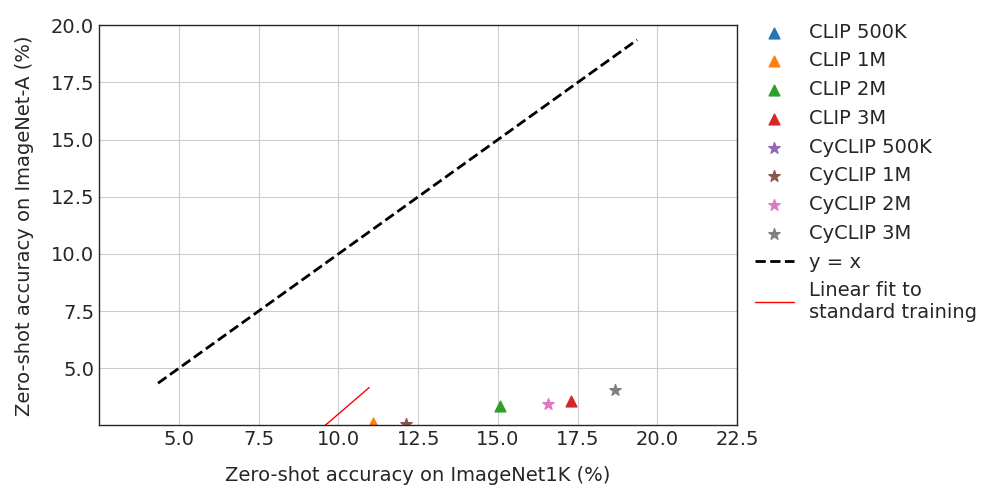
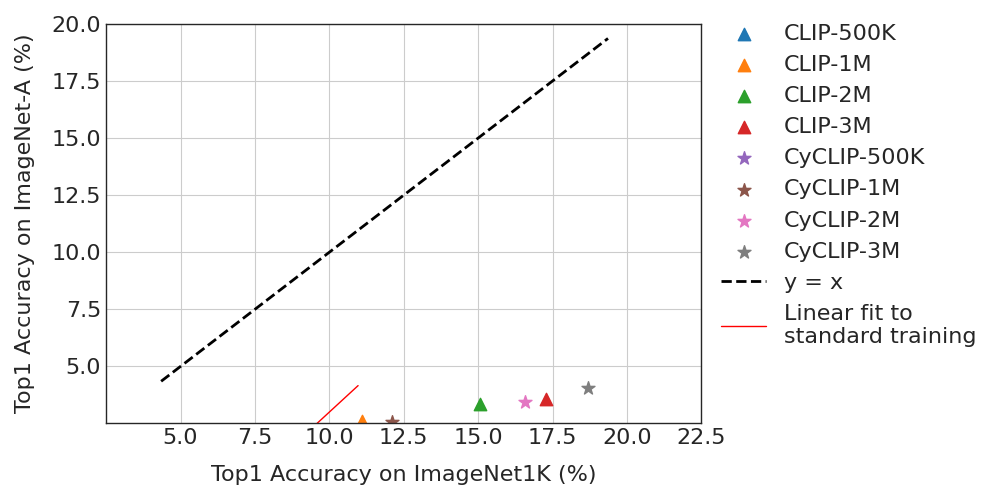
minor fixes

Changed region(s): [[0.0, 0.03, 0.992, 0.9], [0.217, 0.93, 0.62, 0.99]]

diff --git a/utils/fine_coarse_plot.py b/utils/fine_coarse_plot.py
@@ -23,39 +23,39 @@ sns.set_style("white")
 k = 1
 
 data_fine_top_1 = {
-    "Dataset": ["CIFAR100", "ImageNet1K", "ImageNetV2", "ImageNetSketch", "ImageNet-A", "ImageNet-R"],
-    "CLIP": [43.55,	34.18, 31.11, 25.11, 40.09, 54.49],
+    "Dataset": ["CIFAR-100", "ImageNet1K", "ImageNetV2", "ImageNetSketch", "ImageNet-A", "ImageNet-R"],
+    "CLIP": [43.55,	34.18, 31.10, 25.11, 40.09, 54.49],
     "CyCLIP": [47.11, 35.46, 33.01, 26.42, 41.25, 55.36],
 }
 
 data_coarse_top_1 = {
-    "Dataset": ["CIFAR100", "ImageNet1K", "ImageNetV2", "ImageNetSketch", "ImageNet-A", "ImageNet-R"],
+    "Dataset": ["CIFAR-100", "ImageNet1K", "ImageNetV2", "ImageNetSketch", "ImageNet-A", "ImageNet-R"],
     "CLIP": [34.82, 52.11, 47.24, 37.03, 14.59, 40.51],
     "CyCLIP": [40.37, 56.79, 52.15, 41.57, 16.48, 44.43],
 }
 
 data_fine_top_2 = {
-    "Dataset": ["CIFAR100", "ImageNet1K", "ImageNetV2", "ImageNetSketch", "ImageNet-A", "ImageNet-R"],
+    "Dataset": ["CIFAR-100", "ImageNet1K", "ImageNetV2", "ImageNetSketch", "ImageNet-A", "ImageNet-R"],
     "CLIP": [67.65, 46.53, 43.85, 36.69, 57.93, 71.55],
     "CyCLIP": [68.67, 48.22, 45.37, 38.34, 57.89, 71.96],
 }
 
 data_coarse_top_2 = {
-    "Dataset": ["CIFAR100", "ImageNet1K", "ImageNetV2", "ImageNetSketch", "ImageNet-A", "ImageNet-R"],
+    "Dataset": ["CIFAR-100", "ImageNet1K", "ImageNetV2", "ImageNetSketch", "ImageNet-A", "ImageNet-R"],
     "CLIP": [49.51, 66.06, 61.42, 49.93, 24.71, 52.77],
-    "CyCLIP": [56.26, 69.66, 65.27, 54.59, 26.75, 55.98],
+    "CyCLIP": [56.26, 69.67, 65.27, 54.59, 26.75, 55.98],
 }
 
 data_fine_top_3 = {
-    "Dataset": ["CIFAR100", "ImageNet1K", "ImageNetV2", "ImageNetSketch", "ImageNet-A", "ImageNet-R"],
+    "Dataset": ["CIFAR-100", "ImageNet1K", "ImageNetV2", "ImageNetSketch", "ImageNet-A", "ImageNet-R"],
     "CLIP": [82.41, 53.95, 51.61, 44.66, 67.80, 79.52],
     "CyCLIP": [83.32, 55.43, 52.85, 46.09, 68.75, 79.81],
 }
 
 data_coarse_top_3 = {
-    "Dataset": ["CIFAR100", "ImageNet1K", "ImageNetV2", "ImageNetSketch", "ImageNet-A", "ImageNet-R"],
+    "Dataset": ["CIFAR-100", "ImageNet1K", "ImageNetV2", "ImageNetSketch", "ImageNet-A", "ImageNet-R"],
     "CLIP": [58.39, 73.20, 69.09, 57.61, 32.49, 60.07],
-    "CyCLIP": [65.65, 76.45, 72.39, 62.21, 34.83, 63.12],
+    "CyCLIP": [65.65, 76.45, 72.40, 62.22, 34.83, 63.12],
 }
 
 ylims = {1: 80, 2: 100, 3: 100}
@@ -70,16 +70,9 @@ for k in [1, 2, 3]:
     Y_axis = np.arange(0, ylims[k], 10)
 
     for index in range(2):
-        if(index == 0):
-            yaxis_label = f"Fine-grained Top{k} Accuracy (%)"
-            xaxis_label = "(a)"
-        else:
-            yaxis_label = f"Coarse-grained Top{k} Accuracy (%)"
-            xaxis_label = "(b)"
-
         axes[index].set_ylim(0, ylims[k])
-        axes[index].set_xlabel(xaxis_label)
-        axes[index].set_ylabel(yaxis_label)
+        axes[index].set_xlabel(f"{'(a)' if (index == 0) else '(b)'}")
+        axes[index].set_ylabel(f"Top{k} Accuracy (%)", labelpad = 12)
         axes[index].set_xticks(X_axis)
         axes[index].set_yticks(Y_axis)
         axes[index].set_xticklabels(data[index]["Dataset"], fontsize = 12, rotation = 30)
@@ -88,8 +81,7 @@ for k in [1, 2, 3]:
         axes[index].bar(X_axis + 0.37, data[index]["CyCLIP"], width = 0.35, label = "CyCLIP", alpha = 0.85)
         
         for i, v in enumerate(data[index]["CLIP"]):
-            axes[index].text(i + 0.625, v + 1, v, fontsize = 11)
-            axes[index].text(i + 1.200, data[index]["CyCLIP"][i] + 1, str(data[index]["CyCLIP"][i]), fontsize = 11)
+            axes[index].text(i + 0.9, data[index]["CyCLIP"][i] + 1.5, "+" + str(round(data[index]["CyCLIP"][i] - data[index]["CLIP"][i], 2)) + "%", fontsize = 12)
 
         axes[index].legend(prop = {"size": 12})
         

diff --git a/utils/effective_robustness_plot.py b/utils/effective_robustness_plot.py
@@ -5,10 +5,10 @@ import matplotlib.pyplot as plt
 
 params = {
     "figure.figsize": (10, 5),
-    "legend.fontsize": 14,
-    "axes.labelsize": 14,
-    "xtick.labelsize": 14,
-    "ytick.labelsize": 14,
+    "legend.fontsize": 16,
+    "axes.labelsize": 16,
+    "xtick.labelsize": 16,
+    "ytick.labelsize": 16,
     "font.family": "Liberation Mono"
 }
 
@@ -37,18 +37,18 @@ cyclip = {
 for dataset in ["ImageNetV2", "ImageNetSketch", "ImageNet-A", "ImageNet-R"]:
     plt.clf()
     
-    plt.scatter(clip["ImageNet1K"][0], clip[dataset][0], marker = "^", s = 60, label = f"CLIP {clip['Datasize'][0]}")
-    plt.scatter(clip["ImageNet1K"][1], clip[dataset][1], marker = "^", s = 60, label = f"CLIP {clip['Datasize'][1]}")
-    plt.scatter(clip["ImageNet1K"][2], clip[dataset][2], marker = "^", s = 60, label = f"CLIP {clip['Datasize'][2]}")
-    plt.scatter(clip["ImageNet1K"][3], clip[dataset][3], marker = "^", s = 60, label = f"CLIP {clip['Datasize'][3]}")
+    plt.scatter(clip["ImageNet1K"][0], clip[dataset][0], marker = "^", s = 80, label = f"CLIP-{clip['Datasize'][0]}")
+    plt.scatter(clip["ImageNet1K"][1], clip[dataset][1], marker = "^", s = 80, label = f"CLIP-{clip['Datasize'][1]}")
+    plt.scatter(clip["ImageNet1K"][2], clip[dataset][2], marker = "^", s = 80, label = f"CLIP-{clip['Datasize'][2]}")
+    plt.scatter(clip["ImageNet1K"][3], clip[dataset][3], marker = "^", s = 80, label = f"CLIP-{clip['Datasize'][3]}")
 
-    plt.scatter(cyclip["ImageNet1K"][0], cyclip[dataset][0], marker = "*", s = 72, label = f"CyCLIP {cyclip['Datasize'][0]}")
-    plt.scatter(cyclip["ImageNet1K"][1], cyclip[dataset][1], marker = "*", s = 72, label = f"CyCLIP {cyclip['Datasize'][1]}")
-    plt.scatter(cyclip["ImageNet1K"][2], cyclip[dataset][2], marker = "*", s = 72, label = f"CyCLIP {cyclip['Datasize'][2]}")
-    plt.scatter(cyclip["ImageNet1K"][3], cyclip[dataset][3], marker = "*", s = 72, label = f"CyCLIP {cyclip['Datasize'][3]}")
+    plt.scatter(cyclip["ImageNet1K"][0], cyclip[dataset][0], marker = "*", s = 96, label = f"CyCLIP-{cyclip['Datasize'][0]}")
+    plt.scatter(cyclip["ImageNet1K"][1], cyclip[dataset][1], marker = "*", s = 96, label = f"CyCLIP-{cyclip['Datasize'][1]}")
+    plt.scatter(cyclip["ImageNet1K"][2], cyclip[dataset][2], marker = "*", s = 96, label = f"CyCLIP-{cyclip['Datasize'][2]}")
+    plt.scatter(cyclip["ImageNet1K"][3], cyclip[dataset][3], marker = "*", s = 96, label = f"CyCLIP-{cyclip['Datasize'][3]}")
 
-    plt.xlabel("Zero-shot accuracy on ImageNet1K (%)", labelpad = 12)
-    plt.ylabel(f"Zero-shot accuracy on {dataset} (%)", labelpad = 12)
+    plt.xlabel("Top1 Accuracy on ImageNet1K (%)", labelpad = 12)
+    plt.ylabel(f"Top1 Accuracy on {dataset} (%)", labelpad = 12)
     xpoints = ypoints = plt.xlim()
     plt.plot(xpoints, ypoints, linestyle = "--", color = "k", lw = 2, scalex = False, scaley = False, label = "y = x")
 

diff --git a/utils/datasize_ablation_plot.py b/utils/datasize_ablation_plot.py
@@ -4,16 +4,16 @@ import seaborn as sns
 import matplotlib.pyplot as plt
 
 params = {
-    "legend.fontsize": 16,
-    "axes.labelsize": 14,
-    "xtick.labelsize": 14,
-    "ytick.labelsize": 16,
+    "legend.fontsize": 18,
+    "axes.labelsize": 16,
+    "xtick.labelsize": 16,
+    "ytick.labelsize": 18,
     "font.family": "Liberation Mono"
 }
 
 plt.rcParams.update(params)
 plt.style.use("seaborn-whitegrid")
-# sns.set_style("white")
+sns.set_style("white")
 
 data = {
     "Metric": ["500K", "1M", "2M", "3M"],
@@ -25,13 +25,13 @@ _, axes = plt.subplots(1, 1, figsize = (8, 5))
 
 axes.set_ylim(2.5, 20.0)
 axes.set_yticks(np.arange(5, 22.5, 2.5))
-axes.set_xlabel("Dataset size", fontsize = 16, labelpad = 12)
-axes.set_ylabel("Zero-shot Accuracy (%) on ImageNet1K", fontsize = 16, labelpad = 12)
+axes.set_xlabel("Dataset size", fontsize = 18, labelpad = 12)
+axes.set_ylabel("Top1 Accuracy (%) on ImageNet1K", fontsize = 18, labelpad = 12)
 axes.set_xticks(np.arange(len(data["Metric"])))
-axes.set_xticklabels(data["Metric"], fontsize = 16, rotation = 0)
-axes.plot(np.arange(len(data["Metric"])), data["CLIP"], "^-", markersize = 10, label = "CLIP", color = "brown")
-axes.plot(np.arange(len(data["Metric"])), data["CyCLIP"], "*-", markersize = 12, label = "CyCLIP")
-axes.xaxis.grid()
+axes.set_xticklabels(data["Metric"], fontsize = 18, rotation = 0)
+axes.plot(np.arange(len(data["Metric"])), data["CLIP"], "^-", markersize = 12.5, label = "CLIP", color = "brown", alpha = 0.85)
+axes.plot(np.arange(len(data["Metric"])), data["CyCLIP"], "*-", markersize = 15, label = "CyCLIP", alpha = 0.85)
+axes.yaxis.grid()
 
 axes.legend(bbox_to_anchor = (1.0, 1.05))
 plt.tight_layout()

diff --git a/utils/consistency_plot.py b/utils/consistency_plot.py
@@ -4,11 +4,11 @@ import seaborn as sns
 import matplotlib.pyplot as plt
 
 params = {
-    "axes.labelsize": 14,
-    "axes.titlesize": 14,
-    "xtick.labelsize": 14,
-    "ytick.labelsize": 14,
-    "figure.titlesize": 14,
+    "axes.labelsize": 16,
+    "axes.titlesize": 16,
+    "xtick.labelsize": 16,
+    "ytick.labelsize": 16,
+    "figure.titlesize": 16,
     "font.family": "Liberation Mono"
 }
 
@@ -36,13 +36,14 @@ data[2] = ("(c) ImageNet1K", {
 figure, axes = plt.subplots(1, 3, figsize = (16, 5))
 
 for index in range(3):
-    axes[index].set_xlabel(data[index][0], fontsize = 16, labelpad = 12)
+    axes[index].set_xlabel(data[index][0], fontsize = 18, labelpad = 12)
     if(index == 0): axes[index].set_ylabel("Consistency Score (%)", labelpad = 12)
     axes[index].set_xticks(np.arange(4))
-    axes[index].set_xticklabels(["Top-1", "Top-3", "Top-5", "Top-10"], fontsize = 12, rotation = 0)
-    axes[index].plot(np.arange(4), data[index][1]["CLIP"], "*-", markersize = 15, label = "CLIP", color = "brown")
-    axes[index].plot(np.arange(4), data[index][1]["CyCLIP"], "^-", markersize = 15, label = "CyCLIP")
-    axes[index].legend(prop = {"size": 14})
+    axes[index].set_xticklabels(["Top1", "Top3", "Top5", "Top10"], fontsize = 14, rotation = 0)
+    axes[index].plot(np.arange(4), data[index][1]["CLIP"], "*-", markersize = 12, label = "CLIP", color = "brown")
+    axes[index].plot(np.arange(4), data[index][1]["CyCLIP"], "^-", markersize = 10, label = "CyCLIP")
+    axes[index].legend(prop = {"size": 16})
+    axes[index].set_ylim(0, 80)
 
 plt.tight_layout()
 plt.subplots_adjust(wspace = 0.225)

diff --git a/utils/embeddings_labels.py b/utils/embeddings_labels.py
@@ -43,7 +43,7 @@ def get_model(options):
     return model, processor
 
 def get_data(options, processor):
-    if(options.input_type in ["ImageNet1K", "ImageNetSketch", "ImageNetV2", "ImageNet-A", "ImageNet-R"]):
+    if(options.input_type in ["ImageNet1K", "ImageNetSketch", "ImageNetV2", "ImageNet-A", "ImageNet-R", "DogsvsCats"]):
         dataset = ImageNetDataset(root = options.input_dir, transform = processor.process_image)
     elif(options.input_type == "CIFAR10"):
         dataset = torchvision.datasets.CIFAR10(root = os.path.dirname(options.input_dir), download = True, train = "train" in options.input_dir, transform = processor.process_image)
